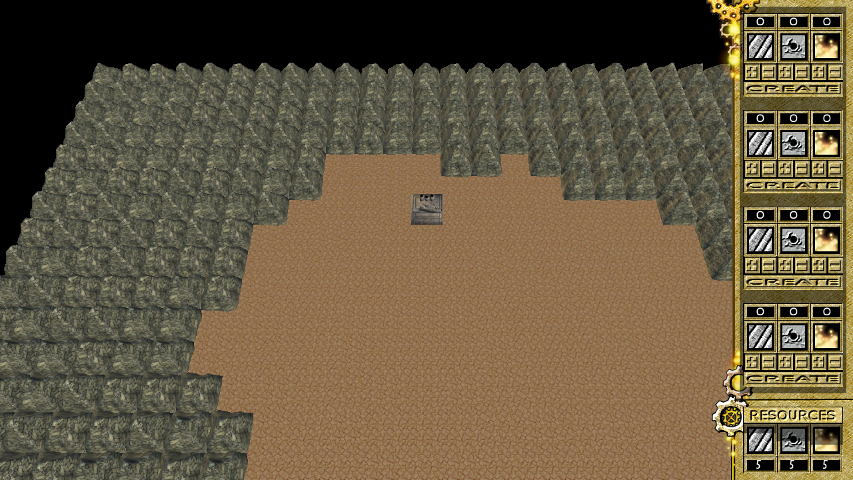
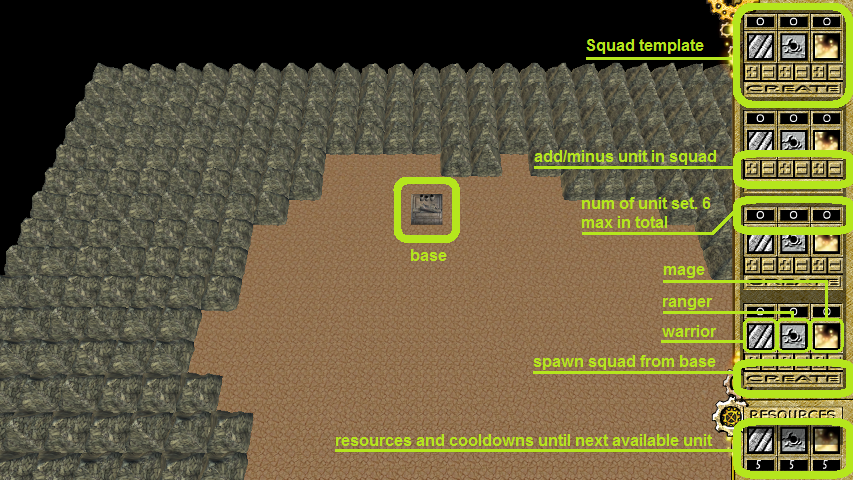
better camera limits, new tutorial image

diff --git a/coal-raider/coal-raider/coal-raider/Gameplay/Camera.cs b/coal-raider/coal-raider/coal-raider/Gameplay/Camera.cs
@@ -54,7 +54,7 @@ namespace coal_raider
             noActionRectangle = new Rectangle(MouseCameraBorder, MouseCameraBorder, vp.Width - MouseCameraBorder * 2, vp.Height - MouseCameraBorder * 2);
             screenSizeOver2 = new Vector2(vp.Width / 2, vp.Height / 2);
 
-            this.mapSize = mapSize - new Vector2(5, 5);
+            this.mapSize = mapSize - new Vector2(20, 20);
         }
 
         public override void Initialize()
@@ -80,11 +80,11 @@ namespace coal_raider
                     cameraTarget.X -= msV.X * mouseMouvementScalar;
                 }
 
-                if ((cameraTarget.Z >= -mapSize.Y && cameraTarget.Z <= mapSize.Y))
+                if ((cameraTarget.Z >= -mapSize.Y && cameraTarget.Z <= mapSize.Y-7))
                 {
                     cameraTarget.Z += msV.Z * mouseMouvementScalar;
                 }
-                if (!(cameraTarget.Z >= -mapSize.Y && cameraTarget.Z <= mapSize.Y))//undo move if out of screen
+                if (!(cameraTarget.Z >= -mapSize.Y && cameraTarget.Z <= mapSize.Y-7))//undo move if out of screen
                 {
                     cameraTarget.Z -= msV.Z * mouseMouvementScalar;
                 }
